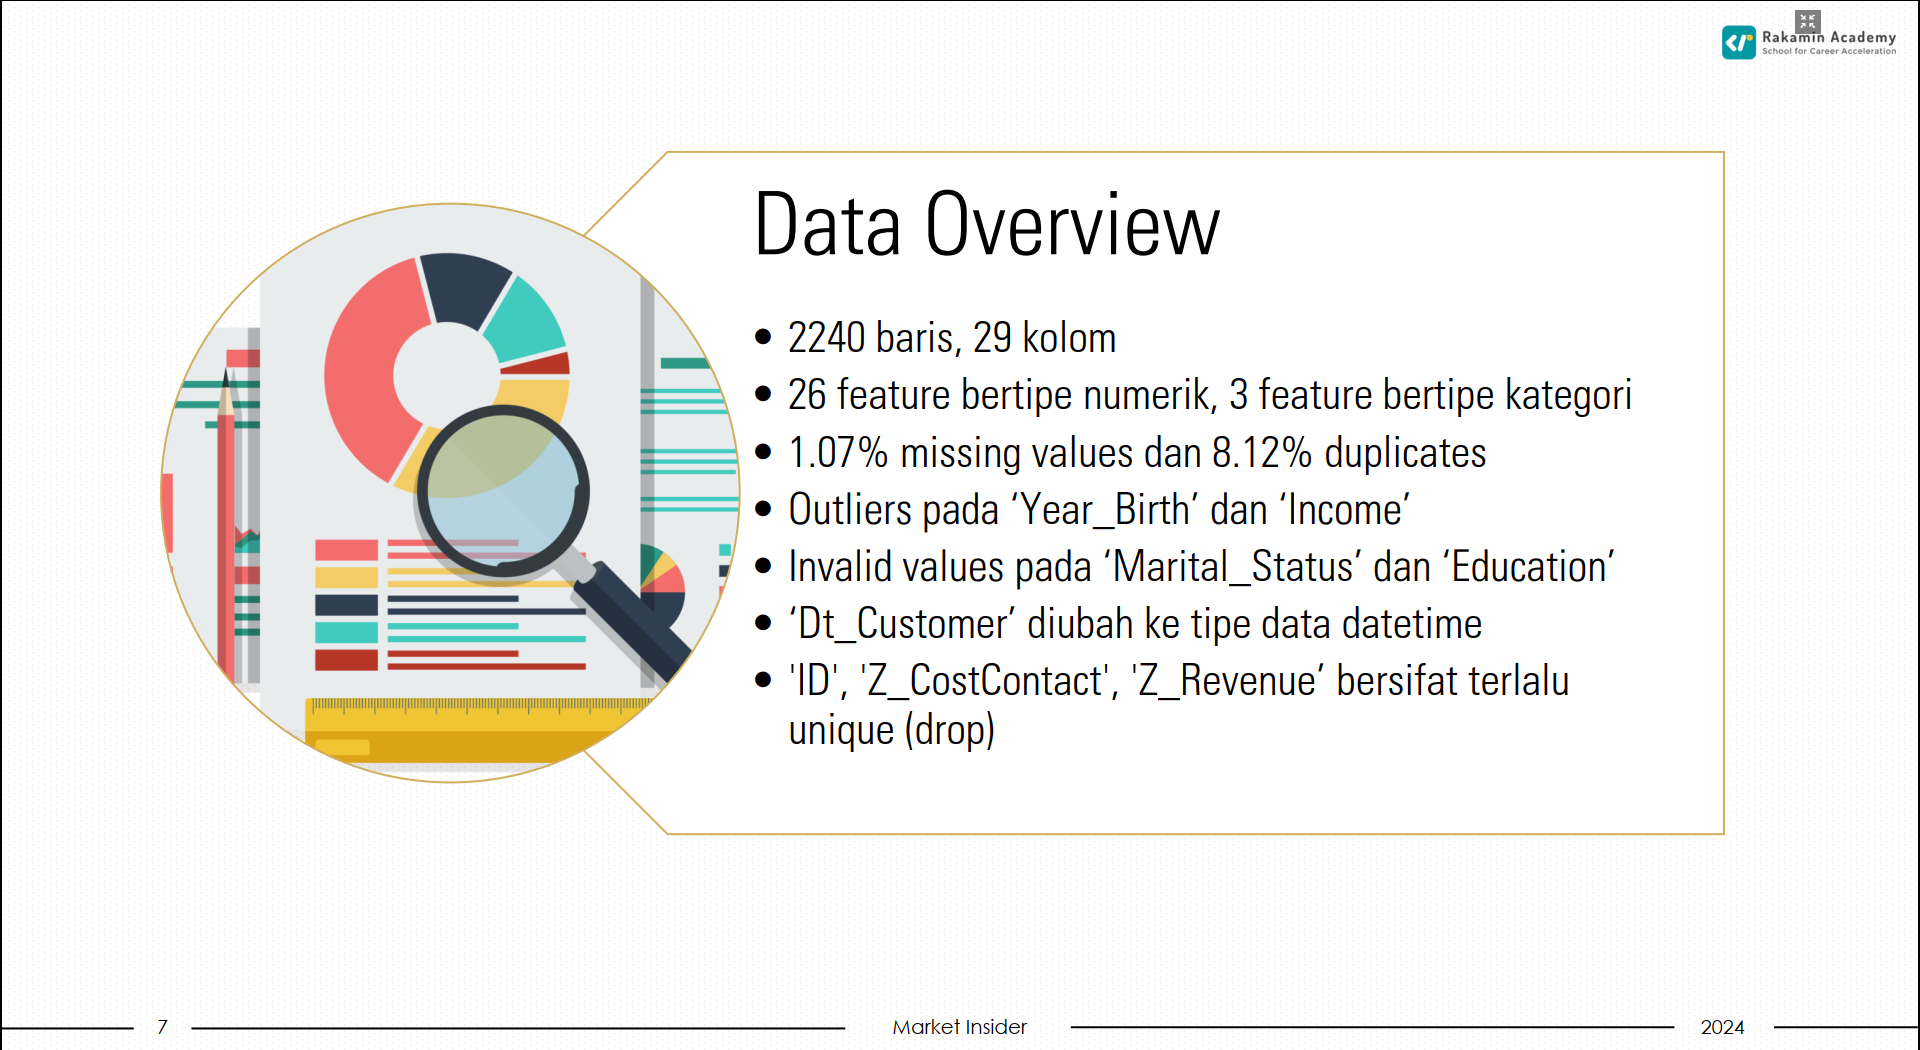
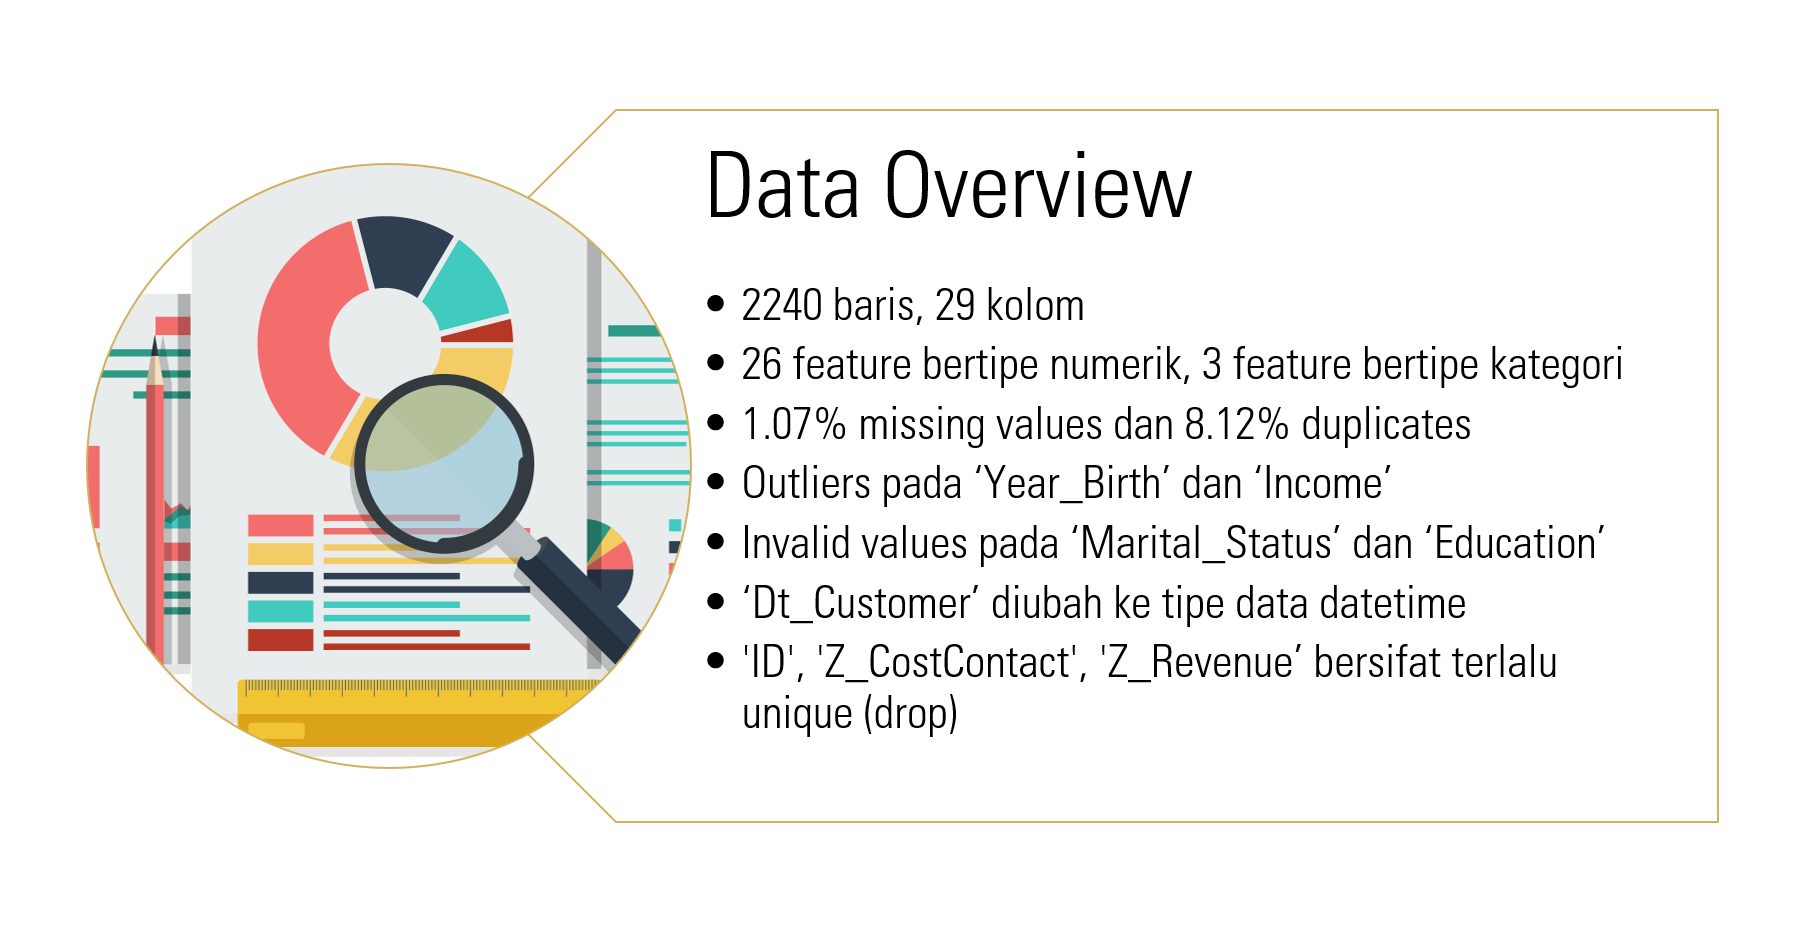
update readme

diff --git a/README.md b/README.md
@@ -20,36 +20,19 @@
 
 ## Business Understanding 🎯
 
-### **Problem Statements :**
-
-Sebuah perusahaan melaksanakan kampanye pemasaran, dimana kampanye pemasaran terakhirnya hanya berhasil meraih respons sebesar 14.91% dari 2240 pelanggan.
-
-### **Objective:**
-
-Membuat model prediktif untuk memprediksi response pelanggan
-
-### **Business Metrics:**
-
-Response Rate (Primary Metrics), Profit Margin (Secondary Metrics)
-
-### **Goals:**
-
-Merekomendasikan actionable business insight kepada tim Marketing dan Meningkatkan Response Rate dan Profit Margin dari marketing campaign
+![Business Understanding](images/business-understanding.png)
 
 ---
 
 ## Data Understanding 📋
 
-### **Data Overview**
+![Data Overview](images/data-overview.png)
 
-- Dimensi Data: `2240 baris, 29 kolom`
-- Tipe Data: `26 Numerik, 3 Kategori`
-- Missing Values: `1.07%`
-- Duplicates: `8.12%`
-- Outliers: `Year_Birth` dan `Income`
-- Invalid Values: `Marital_Status` dan `Education`
-- Invalid Tipe Data: `Dt_Customer`
-- All Unique Values: `ID`, `Z_CostContact`, `Z_Revenue`
+![Outliers](images/outliers-values.png)
+Angka tahun kelahiran 1893 jika konversi ke usia pada tahun 2014, didapatkan berusia 120 tahun, sedangkan outliers pada penghasilan kemungkinan terjadi karena kesalahan input.
+
+![Proporsi Feature Kategori](images/countplot.png)
+Graduation dan Married adalah yang paling banyak diantara masing-masing kategori level pendidikan dan status perkawinan. Ada beberapa invalid values atau nilai yang tidak resmi, pada level pendidikan terdapat `2n Cycle` dan `Basic`, sedangkan pada status perkawinan ada `Alone`, `Absurd`, dan `YOLO`.
 
 ---
 
@@ -62,14 +45,13 @@ Merekomendasikan actionable business insight kepada tim Marketing dan Meningkatk
 ![Distribusi Feature Numerik](images/distribusi-numerik.png)
 Mayoritas data terdistribusi secara positif, teen home dan kid home terdistribusi bimodal, dan hanya tahun kelahiran (`Year_Birth`) yang terdistribusi negatif.
 
-![Proporsi Feature Kategori](images/countplot.png)
-Graduation dan Married adalah yang paling banyak diantara masing-masing kategori level pendidikan dan status perkawinan. Ada beberapa invalid values atau nilai yang tidak resmi, pada level pendidikan terdapat `2n Cycle` dan `Basic`, sedangkan pada status perkawinan ada `Alone`, `Absurd`, dan `YOLO`.
-
-![Annual Customer Registration](images/dt-customer.png)
-Grafik di atas menampilkan jumlah customer yang bergabung/pertama kali melakukan transaksi. Customer pertama melakukan transaksi di bulan Juli 2012, dan customer terakhir pada Juni 2014. Dengan kata lain, data ini mencakup sample dari customer yang melakukan transaksi 2 tahun sejak 2012.
+![Annual Customer Registration](images/percentage-response-categorical.png)
+Tingkat pendidikan selaras dengan tingkat response pada marketing campaign, semakin tinggi tingkat pendidikan maka semakin tinggi juga persentase responsenya. Sedangkan customer yang statusnya single mempunyai persentase response yang lebih tinggi dibandingkan dengan yang berpasangan seperti married.
 
 ![Annual Customer Registration Based on Response](images/dt-customer-response.png)
-Sedikit berbeda dengan grafik sebelumnya, grafik di atas membagi 2 segmen customer berdasarkan mereka yang menerima response pada marketing campaign. Terlihat bahwa jumlah yang tidak menerima campaign (garis `merah`) selalu lebih banyak di setiap bulannya bahkan jumlahnya lebih dari 2x. Ini menyebabkan label atau target customer yang akan digunakan dalam modelling menjadi imbalance.
+Grafik di atas menampilkan jumlah customer yang bergabung/pertama kali melakukan transaksi. Customer pertama melakukan transaksi di bulan Juli 2012, dan customer terakhir pada Juni 2014. Dengan kata lain, data ini mencakup sample dari customer yang melakukan transaksi 2 tahun sejak 2012.
+
+Grafik membagi 2 segmen customer berdasarkan mereka yang menerima response dan tidak pada marketing campaign. Terlihat bahwa jumlah yang tidak menerima campaign (garis `merah`) selalu lebih banyak di setiap bulannya bahkan jumlahnya lebih dari 2x. Ini menyebabkan label atau target customer yang akan digunakan dalam modelling menjadi imbalance.
 
 #### **Multivariate Analysis**
 
@@ -99,6 +81,8 @@ Pelanggan yang memberikan respons terhadap campaign memiliki rata-rata pendapata
 3. Handling Outliers: Drop Outliers (Z-Score)
 4. Handling Invalid Values: Replace values
 
+![Data Cleansing Process](images/data-cleansing.png)
+
 ### **Feature Engineering:**
 
 1. Feature Extraction: RFM Cat, Customer Lifespan, Total Purchase, Total Spending, Total Offers, dll
@@ -107,22 +91,45 @@ Pelanggan yang memberikan respons terhadap campaign memiliki rata-rata pendapata
 4. Feature Selection: ANOVA dan Chi-Square, VIF (Redundancy Feature)
 5. Imbalance Handling: SMOTE, oversampling class 1 (1397:251 | 1397:1397)
 
-![RFM Category Proportions](images/rfm-proportions.png)
+**Feature Extraction - Feature Encoding**
+
 RFM Cat merupakan salah feature baru yang diekstrak dari beberapa feature seperti recency, frequency (total transaksi di kelompok feature channel pembelian), dan monetary (total spending di kelompok feature produk). Membagi menjadi 4 segmentasi customer, yang di kalkulasi menggunakan nilai dari quartile masing-masing feature pembentuk. New customer adalah customer dengan recency pembelian paling lama, total frekuensi transaksi terendah, dan jumlah spending terendah, sedangkan lainnya ada at risk customer, loyal customer, dan tertinggi adalah champions.
+
+![RFM Category Proportions](images/feature-extraction-encoding.png)
+
+**Feature Transformation**
+
+Normalisasi bertujuan untuk mengubah nilai-nilai dalam dataset sehingga mereka memiliki skala yang seragam. Ini membantu menghindari bias dari fitur-fitur dengan rentang nilai yang sangat berbeda. Biasanya dilakukan dengan mengubah nilai-nilai ke dalam rentang antara 0 dan 1, namun bisa juga dilakukan dalam rentang lain seperti -1 hingga 1.
+
+Transformasi Yeo-Johnson bertujuan untuk mengubah distribusi data agar lebih simetris dan mendekati distribusi normal. Ini berguna saat data memiliki skewness atau kurtosis yang signifikan. Metode ini menggunakan parameter lambda (λ) untuk mengontrol transformasi data. Nilai lambda dapat diestimasi secara otomatis berdasarkan data atau dapat ditentukan secara manual.
+
+![Feature Transformation](images/feature-transformation.png)
+
+**Feature Selection**
+
+Terdapat 28 feature dari 33 feature yang lolos uji anova dengan confidence level di 95%. Uji Anova digunakan untuk melihat apakah ada perbedaan signifikan antara feature yang mempengaruhi (independent features) dengan feature yang dipengaruhi / target (dependent feature), dimana feature independent adalah numerik dan target adalah kategori.
 
 ![ANOVA Stats - Feature Selection](images/anova-selection.png)
 
-Terdapat 28 feature dari 33 feature yang lolos uji anova dengan confidence level di 95%. Uji Anova digunakan untuk melihat apakah ada perbedaan signifikan antara feature yang mempengaruhi (independent features) dengan feature yang dipengaruhi / target (dependent feature), dimana feature dependent adalah numerik dan target adalah kategori..
+Terdapat 3 feature dari 5 feature yang lolos uji Chi Square dengan confidence level di 95%. Uji Chi Square digunakan untuk melihat apakah ada perbedaan signifikan antara feature yang mempengaruhi (independent features) dengan feature yang dipengaruhi / target (dependent feature), dimana feature independent adalah kategori dan target adalah kategori.
 
 ![Chi Square - Feature Selection](images/chi2-selection.png)
 
-Terdapat 3 feature dari 5 feature yang lolos uji Chi Square dengan confidence level di 95%. Uji Chi Square digunakan untuk melihat apakah ada perbedaan signifikan antara feature yang mempengaruhi (independent features) dengan feature yang dipengaruhi / target (dependent feature), dimana feature dependent adalah kategori dan target adalah kategori.
+Setelah melalui tahapan 2 uji statistik, selanjutnya melakukan redundacy analysis. Redundacy Analysis digunakan untuk mengoptimalkan kinerja pemodelan, mereduksi feature-feature yang mempunyai kemiripan atau saling berkorelasi satu sama lain (multicolinearity). Metode yang digunakan adalah `VIF Score`, metode ini biasanya digunakan dalam pemodelan regresi dan tidak lazim pada kasus klasifikasi, namun pada kasus klasifikasi ini masih applicable karena hubungan feature dan target linear. Apabila menggunakan algoritma model ensemble, sebenarnya tidak perlu melakukan redundancy analysis, karena akan otomatis terseleksi. Namun untuk mengoptimalkan resource dan mempercepat kinerja pemodelan sebaiknya feature yang digunakan tidak terlalu banyak, oleh sebab itu hal ini sangat direkomendasikan.
 
-Setelah melalui tahapan 2 uji statistik, selanjutnya melakukan redundacy analysis. Redundacy Analysis digunakan untuk mengoptimalkan kinerja pemodelan, mereduksi feature-feature yang mempunyai kemiripan atau saling berkorelasi satu sama lain (multicolinearity). Metode yang digunakan adalah `VIF Score`, metode ini biasanya digunakan dalam pemodelan regresi dan tidak lazim pada kasus klasifikasi, namun pada kasus klasifikasi ini masih applicable karena hubungan feature dan target linear. Apabila menggunakan algoritma model ensemble, sebenarnya tidak perlu melakukan redudancy analysis, karena akan otomatis terseleksi. Namun untuk mengoptimalkan resource dan mempercepat kinerja pemodelan sebaiknya feature yang digunakan tidak terlalu banyak, oleh sebab itu hal ini sangat direkomendasikan.
+![Feature Selection Process](images/feature-selection-process.png)
+
+**Feature Imbalance**
+
+Adanya ketidakseimbangan dalam data respons, dimana kelas 1 memiliki sampel yang jauh lebih sedikit dari kelas 0. Untuk menyeimbangkan ini, menggunakan metode SMOTE dari library imblearn. SMOTE membantu membuat sampel sintetis dalam kelas minoritas, memperbaiki ketidakseimbangan dan meningkatkan kualitas model.
+
+![Imbalance](images/feature-imbalance.png)
 
 ---
 
 ## Modelling & Evaluation 🤖
+
+![Model Evaluation](images/metrics-modelling.png)
 
 ### **Default Parameter**
 
@@ -162,6 +169,10 @@ Berdasarkan hasil evaluasi model, model adaboost akan digunakan sebagai model pa
 | **param_56** | **AdaBoostClassifier** | **0.871889** | **0.918397** | **0.850917** | **0.067479** | **7.347494** |
 | param_52           | AdaBoostClassifier           | 0.870808           | 0.912312           | 0.830275           | 0.082037           | 8.992193           |
 
+**Param_56** dipilih sebagai parameter yang digunakan pada hyperparameter tuning model adaboost. Parameter ini meningkatkan score sebelumnya 87% menjadi 90%, dengan tetap menjaga FIT rate di bawah 10%.
+
+![Model Evaluation](images/evaluation-models.png)
+
 ![Feature Importance](images/feature-importance-adb.png)
 
 ---
@@ -170,7 +181,9 @@ Berdasarkan hasil evaluasi model, model adaboost akan digunakan sebagai model pa
 
 ### **Business Simulation**
 
-Menggunakan asumsi cost/promosi adalah **3 USD** dan revenue/promosi adalah **11 USD**, berikut simulasinya untuk menghitung profit margin.
+Menggunakan asumsi cost/promosi adalah **3 USD** dan revenue/promosi adalah **11 USD**, berikut simulasinya untuk menghitung respose rate dan profit margin.
+
+![Model Evaluation](images/business-simulation.png)
 
 |                | Sebelum Model | Sesudah Model |
 | -------------- | ------------: | ------------: |
@@ -185,6 +198,10 @@ Menggunakan asumsi cost/promosi adalah **3 USD** dan revenue/promosi adalah **11
 ### **Business Insight & Recommendation**
 
 Berdasarkan hasil analisa, pelanggan dengan segmentasi loyal dan pelanggan dengan level pendidikan graduation adalah yang paling banyak proporsinya yakni **40% adalah pelanggan loyal** dan **53% adalah berpendidikan graduation**. Oleh sebab itu, 2 kategori ini menjadi target promosi dengan recency berkisar antara 32-46 hari dan customer lifespan 393-495 hari. Recency dan Customer Lifespan dihitung menggunakan *[confidence interval mean](https://www.investopedia.com/terms/c/confidenceinterval.asp)* (confidence level 95%).
+
+![Customer Profile Marketing Campaign](images/business-recommendation.png)
+
+![Business Recommendation](images/business-recommendation-products.png)
 
 ## Dependencies
 
